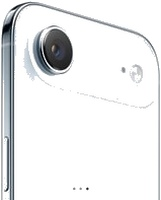
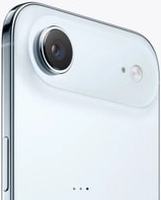
feat: restore electronics.jpg from 0db3b71 without background change and maximize size within card

diff --git a/scripts/process-specific-images.py b/scripts/process-specific-images.py
@@ -123,6 +123,46 @@ def process_adidas(filename):
     cv2.imwrite(filepath, resized, [cv2.IMWRITE_JPEG_QUALITY, 96])
     print(f"Adidas processed: {filename} -> {new_w}x{new_h}")
 
+def process_crop_only(filename, max_w=400, max_h=200):
+    """
+    背景色には手を加えず、余白のみをトリミングして最大化
+    """
+    filepath = os.path.join(IMG_DIR, filename)
+    img = cv2.imread(filepath)
+    if img is None:
+        print(f"Error reading {filename}")
+        return
+    
+    h, w = img.shape[:2]
+    bg_color = img[0, 0].astype(int)
+    diff = np.abs(img.astype(int) - bg_color)
+    is_subject = np.any(diff > 10, axis=2)
+    
+    if np.any(is_subject):
+        y_indices, x_indices = np.where(is_subject)
+        min_y, max_y = np.min(y_indices), np.max(y_indices)
+        min_x, max_x = np.min(x_indices), np.max(x_indices)
+        
+        crop_min_y = max(0, min_y - 1)
+        crop_max_y = min(h, max_y + 2)
+        crop_min_x = max(0, min_x - 1)
+        crop_max_x = min(w, max_x + 2)
+        
+        cropped = img[crop_min_y:crop_max_y, crop_min_x:crop_max_x]
+    else:
+        cropped = img
+    
+    ch, cw = cropped.shape[:2]
+    scale = min(max_w / cw, max_h / ch)
+    new_w = max(1, int(cw * scale))
+    new_h = max(1, int(ch * scale))
+    
+    interpolation = cv2.INTER_AREA if scale < 1.0 else cv2.INTER_LANCZOS4
+    resized = cv2.resize(cropped, (new_w, new_h), interpolation=interpolation)
+    
+    cv2.imwrite(filepath, resized, [cv2.IMWRITE_JPEG_QUALITY, 96])
+    print(f"Crop-only processed: {filename} -> {new_w}x{new_h}")
+
 def main():
     # 1. ホイール4枚（背景改善なし、サイズ統一）
     wheel_files = ['ar16.jpg', 'ar17.jpg', 'ar18.jpg', 'aros.jpg']
@@ -133,6 +173,9 @@ def main():
     adidas_files = ['adidas_men_shoes.jpg', 'adidas_women_clothing.jpg']
     for f in adidas_files:
         process_adidas(f)
+
+    # 3. electronics.jpg（背景改善なし、余白トリミング最大化）
+    process_crop_only('electronics.jpg', max_w=400, max_h=200)
 
 if __name__ == '__main__':
     main()
